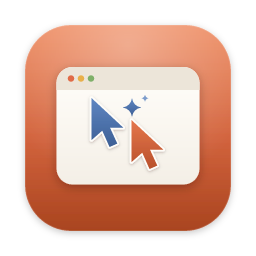
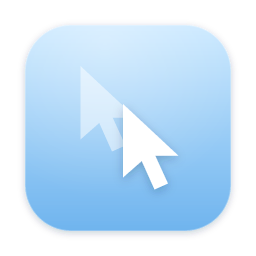
tandem: re-skin to the cloud blue palette with flat backgrounds
Web viewer, login, desktop pages, start page (and its inlined Hostinger
config) and README graphics move from clay/beige to the cloud blue palette;
the warm radial glows are gone. Agent indicators use violet, you use blue.

diff --git a/tandem/web/src/styles.css b/tandem/web/src/styles.css
@@ -1,7 +1,8 @@
-:root{--accent:#C96442;--accent-soft:#F1DDD3;--background:#FAF9F5;--surface:#F0EEE6;--border:#E3DFD3;--text:#1F1E1D;--text-muted:#6B6A65;--agent:#4A6FA5;--human:#C96442;--danger:#B3261E;font-family:Inter,-apple-system,BlinkMacSystemFont,"Segoe UI",sans-serif;color:var(--text);background:var(--background);font-synthesis:none}
-*{box-sizing:border-box}body{margin:0}button,input{font:inherit}button{cursor:pointer;color:inherit;border:1px solid transparent;background:transparent;border-radius:7px;transition:background .15s}button:hover:not(:disabled){background:var(--surface)}button:disabled{cursor:default;opacity:.4}button:focus-visible,input:focus-visible,canvas:focus-visible{outline:2px solid var(--agent);outline-offset:2px}input{color:var(--text);background:var(--background);border:1px solid var(--border);border-radius:8px;min-width:0}[hidden]{display:none!important}.muted{color:var(--text-muted)}
-.viewer{height:100dvh;display:flex;flex-direction:column;overflow:hidden}.chrome{background:var(--surface);flex:none;border-bottom:1px solid var(--border)}.tab-row{display:flex;align-items:center;height:48px;gap:8px;padding:8px 16px 0}.brand-mark{width:25px;height:25px;margin:0 8px 6px 0}.tabs{display:flex;align-items:stretch;gap:4px;min-width:0;overflow-x:auto;scrollbar-width:thin;height:40px;flex:1}.tab{display:flex;align-items:center;width:228px;min-width:110px;max-width:240px;flex:0 1 228px;border:1px solid transparent;border-bottom:0;border-radius:9px 9px 0 0;color:var(--text-muted)}.tab.selected{background:var(--background);border-color:var(--border);color:var(--text)}.tab-select{display:flex;align-items:center;gap:9px;min-width:0;flex:1;padding:10px;border-radius:8px 0 0 0;text-align:left;font-size:12px;height:100%}.tab-title{overflow:hidden;text-overflow:ellipsis;white-space:nowrap;flex:1}.tab-avatar{display:grid;place-items:center;flex:none;width:19px;height:19px;border-radius:5px;background:var(--surface);font-size:10px;font-weight:650;color:var(--text-muted)}.tab-close{font-size:18px;width:25px;height:26px;flex:none;margin-right:5px}.agent-badge{color:var(--agent);font-size:12px}.icon-button{width:32px;height:32px;display:inline-grid;place-items:center;font-size:20px;line-height:1;flex:none}.new-tab{align-self:center;margin-bottom:6px;font-size:23px}.connection{font-size:10px;white-space:nowrap;color:var(--text-muted);padding:0 0 6px 12px;min-width:75px}.connection:before{content:"";display:inline-block;width:5px;height:5px;border-radius:50%;background:var(--accent);margin-right:6px}.connection.live:before{background:var(--agent)}.toolbar{display:flex;align-items:center;gap:10px;padding:10px 16px;background:var(--background);min-height:59px}.navigation{display:flex;gap:1px}.address-form{height:36px;min-width:180px;flex:1;display:flex;align-items:center;gap:8px;border:1px solid var(--border);border-radius:8px;background:var(--surface);padding:0 12px}.address-form:focus-within{outline:2px solid var(--agent);outline-offset:1px}.address-icon{color:var(--text-muted);font-size:21px}.address-form input{flex:1;border:0;background:transparent;font-size:12px;outline:none;box-shadow:none}.address-form input:focus-visible{outline:none}.address-hint{font-size:8px;letter-spacing:.08em;white-space:nowrap;color:var(--text-muted)}.toolbar-right{display:flex;align-items:center;gap:12px}.control-indicator{font-size:11px;color:var(--agent);white-space:nowrap}.control-indicator:before{content:"";display:inline-block;vertical-align:middle;width:6px;height:6px;background:currentColor;border-radius:50%;margin-right:6px}.manual .control-indicator{color:var(--human)}.modes{display:flex;padding:3px;border:1px solid var(--border);border-radius:8px;background:var(--surface)}.modes button{padding:5px 10px;font-size:11px;line-height:16px;color:var(--text-muted)}.modes button[aria-pressed=true]{background:var(--background);box-shadow:0 1px 3px #00000012;color:var(--agent)}.manual .modes button[aria-pressed=true]{color:var(--human)}.desktop-button{font-size:11px;white-space:nowrap;height:33px;padding:0 8px;border-color:var(--border);color:var(--text-muted)}.control-banner{height:35px;flex:none;display:flex;justify-content:center;align-items:center;gap:10px;background:color-mix(in srgb,var(--agent) 7%,var(--background));color:var(--agent);font-size:11px;border-bottom:1px solid color-mix(in srgb,var(--agent) 13%,var(--background))}.control-banner button{font-size:11px;padding:3px 7px;color:inherit;text-decoration:underline;text-underline-offset:3px}.manual .control-banner{background:color-mix(in srgb,var(--accent) 7%,var(--background));color:var(--human);border-bottom-color:var(--accent-soft)}.page-area{position:relative;flex:1;min-height:0;overflow:hidden;background:var(--surface)}canvas{width:100%;height:100%;display:block;cursor:not-allowed;touch-action:none}.manual:not(.disconnected) canvas{cursor:default}canvas:focus-visible{outline-offset:-3px}.empty-state{position:absolute;inset:0;display:flex;align-items:center;justify-content:center;flex-direction:column;text-align:center;padding:30px;pointer-events:none}.empty-state img{width:48px;height:48px;opacity:.85;margin-bottom:14px}.empty-state h1{font-size:24px;font-weight:500;margin:8px}.empty-state p{font-size:13px;color:var(--text-muted);max-width:380px;line-height:1.7}.notice{position:absolute;bottom:20px;left:50%;transform:translateX(-50%);max-width:90%;padding:12px 18px;border:1px solid var(--border);border-radius:10px;box-shadow:0 4px 20px #0001;background:var(--background);font-size:13px}.menu-wrap{position:relative}.menu{position:absolute;right:0;top:38px;width:175px;padding:5px;border:1px solid var(--border);border-radius:9px;background:var(--background);z-index:10;box-shadow:0 8px 25px #0001}.menu button{display:block;width:100%;text-align:left;font-size:13px;padding:9px 10px}dialog{border:1px solid var(--border);border-radius:16px;padding:28px;background:var(--background);color:var(--text);box-shadow:0 20px 80px #0002;max-width:min(520px,calc(100vw - 32px));width:480px}dialog::backdrop{background:#1f1e1d45}dialog h2{font-size:22px;font-weight:500;margin:10px 0 18px}dialog p{font-size:14px;line-height:1.6;overflow-wrap:anywhere}dialog input{display:block;width:100%;padding:10px;margin-top:8px}dialog label{font-size:12px}.dialog-actions{display:flex;justify-content:flex-end;gap:10px;margin-top:25px}.dialog-actions button{padding:9px 18px;border-color:var(--border)}.primary{background:var(--accent);color:#fff;border:1px solid var(--accent)}.primary:hover:not(:disabled){background:color-mix(in srgb,var(--accent) 90%,var(--text))}.eyebrow{font-size:10px!important;font-weight:600;letter-spacing:.13em;color:var(--text-muted)}#audit-dialog{width:800px;max-width:calc(100vw - 32px)}.audit-heading{display:flex;justify-content:space-between;align-items:center}.audit-heading h2{margin:0}#audit-content{max-height:55vh;overflow:auto;white-space:pre-wrap;overflow-wrap:anywhere;font-size:11px;background:var(--surface);padding:16px;border-radius:8px;line-height:1.7}.spinner{border:2px solid var(--border);border-top-color:var(--agent);background:transparent;border-radius:50%;animation:spin 1s linear infinite}@keyframes spin{to{transform:rotate(360deg)}}
-.login-page{min-height:100dvh;display:grid;place-items:center;padding:30px;background:radial-gradient(ellipse at 50% 25%,var(--accent-soft),transparent 65%),var(--background)}.login-card{max-width:420px;width:100%;padding:40px;border:1px solid var(--border);background:var(--background);border-radius:18px;box-shadow:0 12px 45px #1f1e1d08}.login-logo{width:48px;height:48px;margin-bottom:23px}.login-card h1{font-family:Georgia,serif;font-size:32px;font-weight:400;margin:14px 0}.login-card>.muted{font-size:14px;line-height:1.6;margin-bottom:30px}.login-card label{display:block;font-size:12px;font-weight:600;margin:16px 0 8px}.login-card input{display:block;width:100%;height:44px;padding:10px 12px}.login-card .primary{width:100%;height:44px;margin-top:7px;display:flex;align-items:center;justify-content:space-between;padding:0 15px;font-size:13px}.login-error{color:var(--danger);font-size:12px;line-height:1.6;min-height:18px;margin:10px 0}.login-footer{font-size:10px;text-align:center;color:var(--text-muted);margin:27px 0 0}
+/* White on the brand accent is 4.05:1; the primary shade provides 4.52:1. */
+:root{--accent:#2F80D6;--accent-soft:#DCEEFF;--primary:#2B78CA;--background:#F7FAFD;--surface:#EEF4FA;--border:#DCE6F0;--text:#14202B;--text-muted:#5F6B78;--agent:#6D5BD0;--human:#2F80D6;--danger:#C62828;font-family:Inter,-apple-system,BlinkMacSystemFont,"Segoe UI",sans-serif;color:var(--text);background:var(--background);font-synthesis:none}
+*{box-sizing:border-box}body{margin:0}button,input{font:inherit}button{cursor:pointer;color:inherit;border:1px solid transparent;background:transparent;border-radius:7px;transition:background .15s}button:hover:not(:disabled){background:var(--surface)}button:disabled{cursor:default;opacity:.4}button:focus-visible,input:focus-visible,canvas:focus-visible{outline:2px solid var(--accent);outline-offset:2px}input{color:var(--text);background:var(--background);border:1px solid var(--border);border-radius:8px;min-width:0}[hidden]{display:none!important}.muted{color:var(--text-muted)}
+.viewer{height:100dvh;display:flex;flex-direction:column;overflow:hidden}.chrome{background:var(--surface);flex:none;border-bottom:1px solid var(--border)}.tab-row{display:flex;align-items:center;height:48px;gap:8px;padding:8px 16px 0}.brand-mark{width:25px;height:25px;margin:0 8px 6px 0}.tabs{display:flex;align-items:stretch;gap:4px;min-width:0;overflow-x:auto;scrollbar-width:thin;height:40px;flex:1}.tab{display:flex;align-items:center;width:228px;min-width:110px;max-width:240px;flex:0 1 228px;border:1px solid transparent;border-bottom:0;border-radius:9px 9px 0 0;color:var(--text-muted)}.tab.selected{background:var(--background);border-color:var(--border);color:var(--text)}.tab-select{display:flex;align-items:center;gap:9px;min-width:0;flex:1;padding:10px;border-radius:8px 0 0 0;text-align:left;font-size:12px;height:100%}.tab-title{overflow:hidden;text-overflow:ellipsis;white-space:nowrap;flex:1}.tab-avatar{display:grid;place-items:center;flex:none;width:19px;height:19px;border-radius:5px;background:var(--surface);font-size:10px;font-weight:650;color:var(--text-muted)}.tab-close{font-size:18px;width:25px;height:26px;flex:none;margin-right:5px}.agent-badge{color:var(--agent);font-size:12px}.icon-button{width:32px;height:32px;display:inline-grid;place-items:center;font-size:20px;line-height:1;flex:none}.new-tab{align-self:center;margin-bottom:6px;font-size:23px}.connection{font-size:10px;white-space:nowrap;color:var(--text-muted);padding:0 0 6px 12px;min-width:75px}.connection:before{content:"";display:inline-block;width:5px;height:5px;border-radius:50%;background:var(--accent);margin-right:6px}.connection.live:before{background:var(--agent)}.toolbar{display:flex;align-items:center;gap:10px;padding:10px 16px;background:var(--background);min-height:59px}.navigation{display:flex;gap:1px}.address-form{height:36px;min-width:180px;flex:1;display:flex;align-items:center;gap:8px;border:1px solid var(--border);border-radius:8px;background:var(--surface);padding:0 12px}.address-form:focus-within{outline:2px solid var(--accent);outline-offset:1px}.address-icon{color:var(--text-muted);font-size:21px}.address-form input{flex:1;border:0;background:transparent;font-size:12px;outline:none;box-shadow:none}.address-form input:focus-visible{outline:none}.address-hint{font-size:8px;letter-spacing:.08em;white-space:nowrap;color:var(--text-muted)}.toolbar-right{display:flex;align-items:center;gap:12px}.control-indicator{font-size:11px;color:var(--agent);white-space:nowrap}.control-indicator:before{content:"";display:inline-block;vertical-align:middle;width:6px;height:6px;background:currentColor;border-radius:50%;margin-right:6px}.manual .control-indicator{color:var(--human)}.modes{display:flex;padding:3px;border:1px solid var(--border);border-radius:8px;background:var(--surface)}.modes button{padding:5px 10px;font-size:11px;line-height:16px;color:var(--text-muted)}.modes button[aria-pressed=true]{background:var(--background);box-shadow:0 1px 3px #00000012;color:var(--agent)}.manual .modes button[aria-pressed=true]{color:var(--human)}.desktop-button{font-size:11px;white-space:nowrap;height:33px;padding:0 8px;border-color:var(--border);color:var(--text-muted)}.control-banner{height:35px;flex:none;display:flex;justify-content:center;align-items:center;gap:10px;background:color-mix(in srgb,var(--agent) 7%,var(--background));color:var(--agent);font-size:11px;border-bottom:1px solid color-mix(in srgb,var(--agent) 13%,var(--background))}.control-banner button{font-size:11px;padding:3px 7px;color:inherit;text-decoration:underline;text-underline-offset:3px}.manual .control-banner{background:color-mix(in srgb,var(--accent) 7%,var(--background));color:var(--human);border-bottom-color:var(--accent-soft)}.page-area{position:relative;flex:1;min-height:0;overflow:hidden;background:var(--surface)}canvas{width:100%;height:100%;display:block;cursor:not-allowed;touch-action:none}.manual:not(.disconnected) canvas{cursor:default}canvas:focus-visible{outline-offset:-3px}.empty-state{position:absolute;inset:0;display:flex;align-items:center;justify-content:center;flex-direction:column;text-align:center;padding:30px;pointer-events:none}.empty-state img{width:48px;height:48px;opacity:.85;margin-bottom:14px}.empty-state h1{font-size:24px;font-weight:500;margin:8px}.empty-state p{font-size:13px;color:var(--text-muted);max-width:380px;line-height:1.7}.notice{position:absolute;bottom:20px;left:50%;transform:translateX(-50%);max-width:90%;padding:12px 18px;border:1px solid var(--border);border-radius:10px;box-shadow:0 4px 20px #0001;background:var(--background);font-size:13px}.menu-wrap{position:relative}.menu{position:absolute;right:0;top:38px;width:175px;padding:5px;border:1px solid var(--border);border-radius:9px;background:var(--background);z-index:10;box-shadow:0 8px 25px #0001}.menu button{display:block;width:100%;text-align:left;font-size:13px;padding:9px 10px}dialog{border:1px solid var(--border);border-radius:16px;padding:28px;background:var(--background);color:var(--text);box-shadow:0 20px 80px #0002;max-width:min(520px,calc(100vw - 32px));width:480px}dialog::backdrop{background:#14202B45}dialog h2{font-size:22px;font-weight:500;margin:10px 0 18px}dialog p{font-size:14px;line-height:1.6;overflow-wrap:anywhere}dialog input{display:block;width:100%;padding:10px;margin-top:8px}dialog label{font-size:12px}.dialog-actions{display:flex;justify-content:flex-end;gap:10px;margin-top:25px}.dialog-actions button{padding:9px 18px;border-color:var(--border)}.primary{background:var(--primary);color:#fff;border:1px solid var(--primary)}.primary:hover:not(:disabled){background:color-mix(in srgb,var(--primary) 90%,black)}.eyebrow{font-size:10px!important;font-weight:600;letter-spacing:.13em;color:var(--text-muted)}#audit-dialog{width:800px;max-width:calc(100vw - 32px)}.audit-heading{display:flex;justify-content:space-between;align-items:center}.audit-heading h2{margin:0}#audit-content{max-height:55vh;overflow:auto;white-space:pre-wrap;overflow-wrap:anywhere;font-size:11px;background:var(--surface);padding:16px;border-radius:8px;line-height:1.7}.spinner{border:2px solid var(--border);border-top-color:var(--accent);background:transparent;border-radius:50%;animation:spin 1s linear infinite}@keyframes spin{to{transform:rotate(360deg)}}
+.login-page{min-height:100dvh;display:grid;place-items:center;padding:30px;background:var(--background)}.login-card{max-width:420px;width:100%;padding:40px;border:1px solid var(--border);background:var(--background);border-radius:18px;box-shadow:0 12px 45px #14202B08}.login-logo{width:48px;height:48px;margin-bottom:23px}.login-card h1{font-family:Georgia,serif;font-size:32px;font-weight:400;margin:14px 0}.login-card>.muted{font-size:14px;line-height:1.6;margin-bottom:30px}.login-card label{display:block;font-size:12px;font-weight:600;margin:16px 0 8px}.login-card input{display:block;width:100%;height:44px;padding:10px 12px}.login-card .primary{width:100%;height:44px;margin-top:7px;display:flex;align-items:center;justify-content:space-between;padding:0 15px;font-size:13px}.login-error{color:var(--danger);font-size:12px;line-height:1.6;min-height:18px;margin:10px 0}.login-footer{font-size:10px;text-align:center;color:var(--text-muted);margin:27px 0 0}
 @media(max-width:1200px){.toolbar{flex-wrap:wrap;gap:8px}.toolbar-right{width:100%;justify-content:flex-end;gap:10px}.address-form{min-width:150px}.control-indicator{margin-right:auto}.tab{width:180px}.connection{min-width:auto}}
 @media(max-width:540px){.tab-row{padding-left:10px;padding-right:10px;gap:4px}.brand-mark{width:21px;height:21px;margin-right:0}.tab{min-width:138px}.connection{font-size:9px;padding-left:3px}.toolbar{padding:8px;gap:5px}.navigation .icon-button{width:28px}.toolbar-right{gap:6px;flex-wrap:wrap}.control-indicator{font-size:10px}.modes button{padding:4px 7px;font-size:10px}.desktop-button{width:28px;padding:0}.desktop-button span{display:none}.address-hint{display:none}.control-banner{font-size:10px;height:auto;min-height:35px;padding:4px;gap:3px}.control-banner button{font-size:10px;white-space:nowrap}.login-card{padding:28px}}
 @media(prefers-reduced-motion:reduce){*{transition:none!important}.spinner{animation-duration:2s}}
@@ -38,7 +39,7 @@
 .neo-bar #banner-action:hover:not(:disabled){background:var(--accent-soft)}
 .neo-bar .modes button{padding:4px 10px}
 .neo-window canvas{cursor:pointer}.manual .neo-window canvas{cursor:default}
-.neo-loading{flex-direction:column;gap:16px;background:radial-gradient(ellipse at 50% 35%,color-mix(in srgb,var(--accent-soft) 40%,transparent),transparent 65%),var(--background)}
+.neo-loading{flex-direction:column;gap:16px;background:var(--background)}
 .neo-loading>img{width:72px;height:72px;margin-bottom:4px}
 .neo-loading h1,.empty-state h1{font-family:Georgia,serif;font-size:30px;font-weight:400;letter-spacing:-.6px;margin:0 0 8px;color:var(--text)}
 .neo-loading p{font-size:12px;line-height:1.6;margin:0;color:var(--text-muted)}
@@ -51,10 +52,10 @@
 .stream-setting button{display:flex;align-items:center;gap:5px}
 .stream-setting button span{color:var(--text-muted)}
 .stream-setting button:after{content:'';margin-left:auto;width:6px;height:6px;border-radius:50%;border:1px solid var(--border)}
-.stream-setting button[aria-pressed=true]{color:var(--agent);background:color-mix(in srgb,var(--agent) 8%,var(--background))}
-.stream-setting button[aria-pressed=true]:after{background:var(--agent);border-color:var(--agent)}
-.login-page{padding:40px 24px;background:radial-gradient(ellipse at 50% 10%,color-mix(in srgb,var(--accent-soft) 65%,transparent),transparent 60%),var(--surface)}
-.login-card{max-width:440px;padding:36px 40px 32px;border-radius:24px;box-shadow:0 18px 60px #1f1e1d0a}
+.stream-setting button[aria-pressed=true]{color:var(--accent);background:var(--accent-soft)}
+.stream-setting button[aria-pressed=true]:after{background:var(--accent);border-color:var(--accent)}
+.login-page{padding:40px 24px;background:var(--background)}
+.login-card{max-width:440px;padding:36px 40px 32px;border-radius:24px;box-shadow:0 6px 24px #14202B06}
 .login-logo{display:block;width:112px;height:112px;margin:0 auto 22px}
 .login-card>.eyebrow,.login-card>h1,.login-card>.muted{text-align:center}
 .login-card h1{font-size:34px;letter-spacing:-.8px;margin:12px 0}
@@ -68,6 +69,6 @@
 @media(max-width:700px){.neo-bar{gap:10px;padding:0 10px}.neo-bar .control-indicator{display:none}.neo-bar .toolbar-right{gap:6px}.neo-bar .modes button{padding:4px 6px}.neo-bar .connection{min-width:0;font-size:10px}}
 @media(max-width:540px){.brand-mark{font-size:14px;gap:5px;margin-right:4px}.brand-mark img{width:24px;height:24px}.neo-bar{gap:8px}.neo-bar .connection{display:none}.neo-bar .toolbar-right{flex:1}.neo-bar #banner-action{margin-right:0}.login-page{padding:20px 16px}.login-card{padding:28px 24px;border-radius:20px}.login-card h1{font-size:30px}.login-logo{width:96px;height:96px}}
 @media(prefers-color-scheme:dark){
-  :root{--background:#211F1C!important;--surface:#2A2824!important;--border:#45413A!important;--text:#F2F0E9!important;--text-muted:#B6B1A6!important;--accent:#DB896B!important;--accent-soft:#443027!important;--human:#DB896B!important;--agent:#97B4DC!important;--danger:#FF9A8F!important}
-  .login-card{box-shadow:0 18px 60px #0002}.primary,.login-card .primary{background:#C96442;border-color:#C96442;color:#fff}.primary:hover:not(:disabled){background:#B65A3B}
+  :root{--background:#0F1720!important;--surface:#16212C!important;--border:#243241!important;--text:#E6EEF6!important;--text-muted:#A5B4C4!important;--accent:#5FAAF0!important;--accent-soft:#20384F!important;--human:#5FAAF0!important;--agent:#B4A5FF!important;--danger:#FF8A80!important}
+  .login-card{box-shadow:0 6px 24px #0002}.primary,.login-card .primary{background:var(--primary);border-color:var(--primary);color:#fff}.primary:hover:not(:disabled){background:#276DB7}
 }

diff --git a/tandem/start/index.html b/tandem/start/index.html
@@ -8,15 +8,17 @@
   <style>
     :root {
       color-scheme: light dark;
-      --background: #FAF9F5;
-      --surface: #FFFDF9;
-      --text: #1F1E1D;
-      --muted: #6B6A65;
-      --border: #E3DFD3;
-      --accent: #C96442;
-      --agent: #4A6FA5;
-      --hover: #F0EEE6;
-      --shadow: 0 8px 32px #1f1e1d06, 0 2px 5px #1f1e1d03;
+      --background: #F7FAFD;
+      --surface: #FFFFFF;
+      --text: #14202B;
+      --muted: #5F6B78;
+      --border: #DCE6F0;
+      --accent: #2F80D6;
+      /* Accessible white button content: 4.52:1. */
+      --primary: #2B78CA;
+      --agent: #6D5BD0;
+      --hover: #EEF4FA;
+      --shadow: 0 8px 32px #14202B06, 0 2px 5px #14202B03;
       font-family: -apple-system, BlinkMacSystemFont, "Segoe UI", sans-serif;
       background: var(--background);
       color: var(--text);
@@ -46,7 +48,7 @@
       box-shadow: var(--shadow);
       transition: border-color .15s, box-shadow .15s;
     }
-    .search:focus-within { border-color: var(--accent); box-shadow: 0 0 0 3px #C9644214, var(--shadow); }
+    .search:focus-within { border-color: var(--accent); box-shadow: 0 0 0 3px color-mix(in srgb, var(--accent) 12%, transparent), var(--shadow); }
     .search > svg { width: 21px; height: 21px; color: var(--muted); flex-shrink: 0; }
     input {
       min-width: 0;
@@ -68,13 +70,13 @@
       flex-shrink: 0;
       border: 0;
       border-radius: 11px;
-      background: var(--accent);
-      color: #FFFDF9;
+      background: var(--primary);
+      color: #FFFFFF;
       cursor: pointer;
     }
     button:hover { filter: brightness(.93); }
     button svg { width: 20px; height: 20px; }
-    a:focus-visible, button:focus-visible { outline: 2px solid var(--agent); outline-offset: 4px; }
+    a:focus-visible, button:focus-visible { outline: 2px solid var(--accent); outline-offset: 4px; }
     nav { display: flex; flex-wrap: wrap; justify-content: center; gap: 8px; margin-top: 24px; max-width: 700px; }
     nav a {
       display: inline-flex;
@@ -92,12 +94,14 @@
     .hint::before { content: ""; width: 6px; height: 6px; border-radius: 50%; background: var(--agent); flex-shrink: 0; }
     @media (prefers-color-scheme: dark) {
       :root {
-        --background: #1F1E1D;
-        --surface: #292826;
-        --text: #FAF9F5;
-        --muted: #B5B1A8;
-        --border: #45413A;
-        --hover: #34312C;
+        --background: #0F1720;
+        --accent: #5FAAF0;
+        --agent: #B4A5FF;
+        --surface: #16212C;
+        --text: #E6EEF6;
+        --muted: #A5B4C4;
+        --border: #243241;
+        --hover: #20303F;
         --shadow: 0 8px 32px #00000014;
       }
     }
@@ -118,50 +122,11 @@
   <main>
     <header class="brand">
       <!-- Inline mark from tandem/branding/mark.svg; no remote assets. -->
-      <svg xmlns="http://www.w3.org/2000/svg" viewBox="340 366 340 340" aria-hidden="true">
-  <defs>
-    <linearGradient id="bg" x1="512" y1="100" x2="512" y2="924" gradientUnits="userSpaceOnUse">
-      <stop offset="0" stop-color="#EE8A5F"/>
-      <stop offset="0.55" stop-color="#D2633D"/>
-      <stop offset="1" stop-color="#A9441F"/>
-    </linearGradient>
-    <radialGradient id="glow" cx="512" cy="180" r="560" gradientUnits="userSpaceOnUse">
-      <stop offset="0" stop-color="#FFFFFF" stop-opacity="0.32"/>
-      <stop offset="1" stop-color="#FFFFFF" stop-opacity="0"/>
-    </radialGradient>
-    <linearGradient id="card" x1="512" y1="300" x2="512" y2="760" gradientUnits="userSpaceOnUse">
-      <stop offset="0" stop-color="#FFFDF9"/>
-      <stop offset="1" stop-color="#F3EEE5"/>
-    </linearGradient>
-    <linearGradient id="you" x1="0" y1="0" x2="0" y2="1">
-      <stop offset="0" stop-color="#E5764B"/>
-      <stop offset="1" stop-color="#B9512C"/>
-    </linearGradient>
-    <linearGradient id="agent" x1="0" y1="0" x2="0" y2="1">
-      <stop offset="0" stop-color="#5E86C2"/>
-      <stop offset="1" stop-color="#3D5F95"/>
-    </linearGradient>
-    <filter id="shadow" x="-20%" y="-20%" width="140%" height="150%">
-      <feDropShadow dx="0" dy="14" stdDeviation="18" flood-color="#2B1408" flood-opacity="0.30"/>
-    </filter>
-    <filter id="iconShadow" x="-10%" y="-10%" width="120%" height="125%">
-      <feDropShadow dx="0" dy="10" stdDeviation="14" flood-color="#000" flood-opacity="0.22"/>
-    </filter>
-    <filter id="soft" x="-30%" y="-30%" width="160%" height="160%">
-      <feDropShadow dx="0" dy="6" stdDeviation="7" flood-color="#2B1408" flood-opacity="0.28"/>
-    </filter>
-  </defs>
-  <!-- the agent's spark -->
-  <path d="M528 392 Q533 425 566 430 Q533 435 528 468 Q523 435 490 430 Q523 425 528 392 Z" fill="url(#agent)"/>
-  <path d="M580 378 Q582 391 595 393 Q582 395 580 408 Q578 395 565 393 Q578 391 580 378 Z" fill="#5E86C2" opacity="0.8"/>
-  <!-- agent pointer (blue), riding behind -->
-  <g filter="url(#soft)" transform="translate(366 392) scale(0.86)">
-    <path d="M0 0 L0 196 L50 152 L84 228 L120 212 L86 138 L148 138 Z" fill="url(#agent)" stroke="#FFFDF9" stroke-width="16" stroke-linejoin="round" paint-order="stroke"/>
-  </g>
-  <!-- your pointer (clay), in front -->
-  <g filter="url(#soft)" transform="translate(526 480) scale(0.86)">
-    <path d="M0 0 L0 196 L50 152 L84 228 L120 212 L86 138 L148 138 Z" fill="url(#you)" stroke="#FFFDF9" stroke-width="16" stroke-linejoin="round" paint-order="stroke"/>
-  </g>
+      <svg xmlns="http://www.w3.org/2000/svg" viewBox="296 246 450 548" aria-hidden="true">
+<defs><filter id="s" x="-40%" y="-40%" width="180%" height="180%"><feDropShadow dx="0" dy="8" stdDeviation="10" flood-color="#0B2A4A" flood-opacity="0.18"/></filter>
+<linearGradient id="f" x1="0" y1="0" x2="0" y2="1"><stop offset="0" stop-color="#5FAAF0"/><stop offset="1" stop-color="#2F80D6"/></linearGradient></defs>
+<g transform="translate(322 264) scale(1.5)"><path d="M0 0 L0 196 L50 152 L84 228 L120 212 L86 138 L148 138 Z" fill="#B9DCF8"/></g>
+<g filter="url(#s)" transform="translate(492 416) scale(1.5)"><path d="M0 0 L0 196 L50 152 L84 228 L120 212 L86 138 L148 138 Z" fill="url(#f)" stroke="#FFFFFF" stroke-width="12" stroke-linejoin="round" paint-order="stroke"/></g>
 </svg>
       <h1>Tandem</h1>
     </header>

diff --git a/tandem/web/dev/visual-check.ts b/tandem/web/dev/visual-check.ts
@@ -65,10 +65,12 @@ try {
   await waitFor("location.pathname==='/login' && !document.querySelector('#login-submit')?.disabled", 'login config');
   check(await js("document.querySelector('#totp-field').hidden") === !totp, 'TOTP field matches auth-config');
   if (totp) await js("document.querySelector('#totp').value='123456'");
+  check(await js("getComputedStyle(document.body).backgroundImage==='none' && getComputedStyle(document.body).backgroundColor==='rgb(247, 250, 253)'"), 'login has a flat cloud-blue background');
+  check(await js("getComputedStyle(document.querySelector('#login-submit')).backgroundColor==='rgb(43, 120, 202)' && getComputedStyle(document.querySelector('#login-submit')).color==='rgb(255, 255, 255)'"), 'primary button uses accessible blue with white text (4.52:1)');
   await shot(totp ? 'login-totp.png' : 'login.png');
   await cdp('Emulation.setEmulatedMedia', { features: [{ name: 'prefers-color-scheme', value: 'dark' }] });
   await shot('login-dark.png');
-  check(await js("getComputedStyle(document.documentElement).getPropertyValue('--background').trim()==='#211F1C'"), 'login uses dark theme despite runtime branding');
+  check(await js("getComputedStyle(document.documentElement).getPropertyValue('--background').trim()==='#0F1720'"), 'login uses dark theme despite runtime branding');
   await cdp('Emulation.setDeviceMetricsOverride', { width: 390, height: 844, deviceScaleFactor: 1, mobile: false });
   await shot('login-narrow-dark.png');
   check(await js("document.documentElement.scrollWidth===innerWidth"), '390px login has no horizontal overflow');
@@ -87,6 +89,7 @@ try {
   await waitFor("location.pathname==='/' && document.querySelector('#connection')?.textContent.startsWith('Live') && document.querySelector('#empty')?.hidden", 'authenticated live frame');
   check(await js("document.title.endsWith(' — Tandem')"), 'runtime product name and tab title');
   await click('[data-mode="agent"]'); await shot('agent.png');
+  check(await js("getComputedStyle(document.querySelector('#control-indicator')).color==='rgb(109, 91, 208)'"), 'agent control indicator uses violet');
   check(await js("document.querySelector('#address').readOnly && document.querySelector('#desktop-view').disabled"), 'Agent mode blocks address and desktop controls');
   const before = (await messages()).length;
   await js("let c=document.querySelector('#page');c.focus();c.dispatchEvent(new KeyboardEvent('keydown',{key:'a',code:'KeyA',bubbles:true}));c.dispatchEvent(new WheelEvent('wheel',{deltaY:10,bubbles:true,cancelable:true}))");
@@ -101,6 +104,7 @@ try {
   await click('[data-mode="manual"]');
   await waitFor("document.body.classList.contains('manual')", 'Manual control acknowledgement');
   await shot('manual.png');
+  check(await js("getComputedStyle(document.querySelector('#control-indicator')).color==='rgb(47, 128, 214)'"), 'manual control indicator uses human blue');
   check(await js("!document.querySelector('#address').readOnly && !document.querySelector('#desktop-view').disabled && document.querySelector('#banner-text').textContent.includes('2 waiting')"), 'Manual control enables navigation and shows waiting agent calls');
   await js("desktopCommand('focus-address');desktopCommand('edit-select-all');desktopCommand('edit-copy')"); await delay(100);
   check(await js("copiedText.startsWith('https://')"), 'Desktop copy routes to focused address field');
@@ -161,6 +165,7 @@ try {
   check(await js("document.querySelector('.brand-mark img').getAttribute('src')==='/assets/mark.svg' && document.querySelector('.brand-mark').textContent==='Tandem'"), 'viewer uses transparent brand mark and Tandem wordmark');
   check(await js("document.querySelector('#neo-window').getAttribute('aria-label')==='Browser window'"), 'browser window has product-neutral accessible label');
   await click('#menu-button'); await shot('viewer-full-light.png');
+  check(await js("getComputedStyle(document.querySelector('#neo-loading')).backgroundImage==='none' && getComputedStyle(document.querySelector('#empty')).backgroundImage==='none'"), 'connecting and empty states have flat backgrounds');
   check(await js("document.querySelector('#stream-smooth').getAttribute('aria-pressed')==='true'"), 'Smooth is the default stream');
   await click('#stream-sharp');
   check(await js("localStorage.getItem('tandem.stream')==='sharp' && document.querySelector('#stream-sharp').getAttribute('aria-pressed')==='true'"), 'Sharp selection is persisted and reflected in the menu');

diff --git a/tandem/desktop/pages/style.css b/tandem/desktop/pages/style.css
@@ -1,7 +1,8 @@
+/* White on the brand accent is 4.05:1; the primary shade provides 4.52:1. */
 :root {
   color-scheme: light dark;
-  --background: #FAF9F5; --surface: #F0EEE6; --text: #1F1E1D; --textMuted: #6B6A65;
-  --border: #E3DFD3; --accent: #C96442; --accentSoft: #F1DDD3; --agent: #4A6FA5; --danger: #B3261E;
+  --background: #F7FAFD; --surface: #EEF4FA; --text: #14202B; --textMuted: #5F6B78;
+  --border: #DCE6F0; --accent: #2F80D6; --primary: #2B78CA; --accentSoft: #DCEEFF; --agent: #6D5BD0; --danger: #C62828;
   font-family: -apple-system, BlinkMacSystemFont, "Segoe UI", sans-serif;
 }
 * { box-sizing: border-box; }
@@ -14,9 +15,9 @@ p { font-size: 14px; line-height: 1.65; color: var(--textMuted); }
 .hint { font-size: 12px; overflow-wrap: anywhere; }
 label { display: block; margin: 24px 0 8px; font-size: 12px; font-weight: 600; }
 input { width: 100%; padding: 13px; border: 1px solid var(--border); border-radius: 10px; color: var(--text); background: var(--surface); font: inherit; font-size: 14px; }
-input:focus-visible, button:focus-visible, a:focus-visible { outline: 2px solid var(--agent); outline-offset: 3px; }
+input:focus-visible, button:focus-visible, a:focus-visible { outline: 2px solid var(--accent); outline-offset: 3px; }
 .actions { display: flex; flex-wrap: wrap; gap: 10px; margin-top: 22px; }
-button { font: inherit; font-size: 13px; font-weight: 600; background: #C96442; color: white; border: 1px solid transparent; border-radius: 9px; padding: 12px 16px; cursor: pointer; }
+button { font: inherit; font-size: 13px; font-weight: 600; background: var(--primary); color: white; border: 1px solid transparent; border-radius: 9px; padding: 12px 16px; cursor: pointer; }
 button:hover { filter: brightness(.95); }
 button.secondary { color: var(--text); background: var(--surface); border-color: var(--border); }
 button:disabled { cursor: wait; opacity: .65; }
@@ -32,5 +33,5 @@ body[data-page="about"] h1 { margin: 4px 0 8px; }
 body[data-page="about"] #attribution ~ p { font-size: 11px; line-height: 1.6; }
 @media(max-width:540px) { main { padding: 28px; } }
 @media(prefers-color-scheme:dark) {
-  :root { --background:#211F1C!important; --surface:#2A2824!important; --text:#F2F0E9!important; --textMuted:#B6B1A6!important; --border:#45413A!important; --accent:#DB896B!important; --accentSoft:#443027!important; --agent:#97B4DC!important; --danger:#FF9A8F!important; }
+  :root { --background:#0F1720!important; --surface:#16212C!important; --text:#E6EEF6!important; --textMuted:#A5B4C4!important; --border:#243241!important; --accent:#5FAAF0!important; --accentSoft:#20384F!important; --agent:#B4A5FF!important; --danger:#FF8A80!important; }
 }

diff --git a/tandem/web/src/app.ts b/tandem/web/src/app.ts
@@ -110,7 +110,7 @@ function draw() {
     canvas.width = Math.round(w * dpr); canvas.height = Math.round(h * dpr);
   }
   context.setTransform(dpr, 0, 0, dpr, 0, 0);
-  context.fillStyle = getComputedStyle(document.documentElement).getPropertyValue('--surface').trim() || '#F0EEE6';
+  context.fillStyle = getComputedStyle(document.documentElement).getPropertyValue('--surface').trim() || '#EEF4FA';
   context.fillRect(0, 0, w, h);
   if (frame) {
     const fit = fitFrame(w, h, frame.header.deviceWidth, frame.header.deviceHeight);
@@ -488,7 +488,7 @@ function resized() { draw(); clearTimeout(viewportTimer); viewportTimer = setTim
 new ResizeObserver(resized).observe(canvas); window.addEventListener('resize', resized);
 window.addEventListener('pagehide', () => { stopped = true; send({ t: 'follow', enabled: false }); neo?.stop(); releaseInputs(); unsubscribe?.(); clearInterval(pingTimer); clearTimeout(reconnectTimer); socket?.close(); frame?.image.close(); });
 async function start() { try { brand = await loadBrand();
-  neo = new NeoView($('neo-window'), mac, brand.colors.background || '#FAF9F5', status => { neoStatus = status; renderConnection(); }, notify, () => setMode('manual'), send, stream);
+  neo = new NeoView($('neo-window'), mac, getComputedStyle(document.documentElement).getPropertyValue('--background').trim() || '#F7FAFD', status => { neoStatus = status; renderConnection(); }, notify, () => setMode('manual'), send, stream);
   applyView(); render(); draw(); await connect(); } catch (error) { notify(error instanceof Error ? error.message : 'Unable to start browser.'); } }
 applyView();
 void start();

diff --git a/tandem/CHANGELOG.md b/tandem/CHANGELOG.md
@@ -13,6 +13,8 @@ of declared breaking changes is not a guarantee of compatibility.
 
 ### Tandem changes
 
+- Refresh the viewer, desktop app, start page and README graphics with a calmer cloud-blue brand.
+
 - Add an offline Tandem start page with search/URL navigation, quick links, and
   light/dark layouts. Managed new-tab and homepage policies use the mounted page.
 - Mount the page and policies in production, local, CI and Hostinger deployments;
